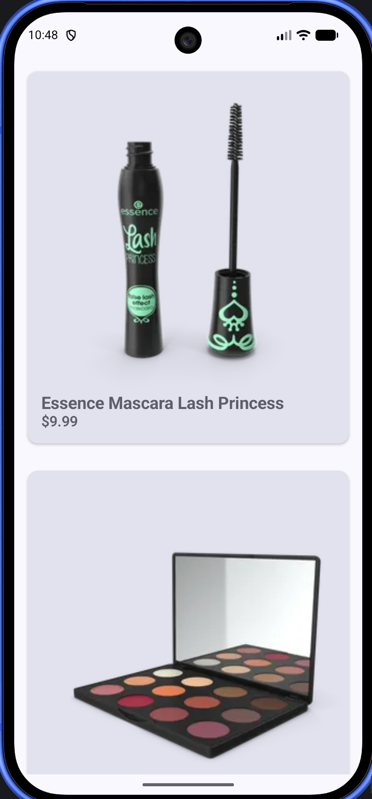
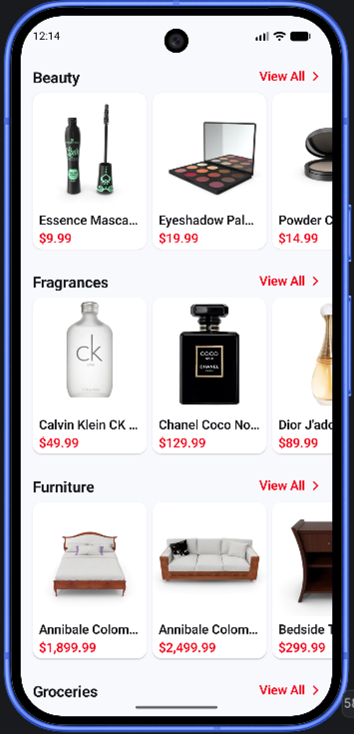
Replace current-home.png

diff --git a/app/src/main/java/com/reneprojects/feature/products/ui/components/CarouselSections.kt b/app/src/main/java/com/reneprojects/feature/products/ui/components/CarouselSections.kt
@@ -14,7 +14,8 @@ import androidx.compose.foundation.lazy.items
 import androidx.compose.material3.Card
 import androidx.compose.material3.CardDefaults
 import androidx.compose.material3.Icon
-import androidx.compose.material3.MaterialTheme
+import androidx.compose.material3.MaterialTheme.colorScheme
+import androidx.compose.material3.MaterialTheme.typography
 import androidx.compose.material3.Surface
 import androidx.compose.material3.Text
 import androidx.compose.runtime.Composable
@@ -60,17 +61,24 @@ private fun CarouselHeader(section: ProductCarousel) {
         horizontalArrangement = Arrangement.SpaceBetween
     ) {
         val linkButtonLabel = stringResource(R.string.ren_ecomme_carousel_view_all_label)
-        Text(text = section.header.label, style = MaterialTheme.typography.titleMedium)
+        Text(
+            text = section.header.label.replaceFirstChar { it.uppercase() },
+            style = typography.titleLarge
+        )
         Row(
             horizontalArrangement = Arrangement.spacedBy(8.dp),
             verticalAlignment = Alignment.CenterVertically
         ) {
-            Text(text = linkButtonLabel, style = MaterialTheme.typography.titleMedium)
+            Text(
+                text = linkButtonLabel,
+                style = typography.titleMedium,
+                color = colorScheme.primary
+            )
             Icon(
                 painter = painterResource(id = R.drawable.ic_right_arrow_next), // or Icons.Filled.Add, Icons.Rounded.Menu
                 contentDescription = "Home Icon",
                 modifier = Modifier.size(12.dp),
-                tint = MaterialTheme.colorScheme.primary
+                tint = colorScheme.primary
             )
         }
     }
@@ -80,7 +88,7 @@ private fun CarouselHeader(section: ProductCarousel) {
 private fun ProductCard(product: Product) {
     Card(
         colors = CardDefaults.cardColors(
-            containerColor = MaterialTheme.colorScheme.surface,
+            containerColor = colorScheme.surface,
         ),
         elevation = CardDefaults.cardElevation(defaultElevation = 1.dp)
     )
@@ -98,7 +106,7 @@ private fun ProductCard(product: Product) {
             Text(
                 modifier = Modifier.padding(horizontal = 8.dp),
                 text = product.title,
-                style = MaterialTheme.typography.titleMedium,
+                style = typography.titleMedium,
                 maxLines = 1,
                 overflow = TextOverflow.Ellipsis
             )
@@ -107,7 +115,8 @@ private fun ProductCard(product: Product) {
             Text(
                 modifier = Modifier.padding(horizontal = 8.dp),
                 text = product.formattedPrice,
-                style = MaterialTheme.typography.bodyMedium
+                style = typography.titleMedium,
+                color = colorScheme.primary
             )
             Spacer(modifier = Modifier.height(4.dp))
 
@@ -135,7 +144,7 @@ fun ProductCarouselsPreview() {
         Surface() {
             CarouselSection(
                 ProductCarousel(
-                    header = CarouselHeader("Cellphones", linkId = 1),
+                    header = CarouselHeader("cellphones", linkId = 1),
                     products = productList
                 )
             )
